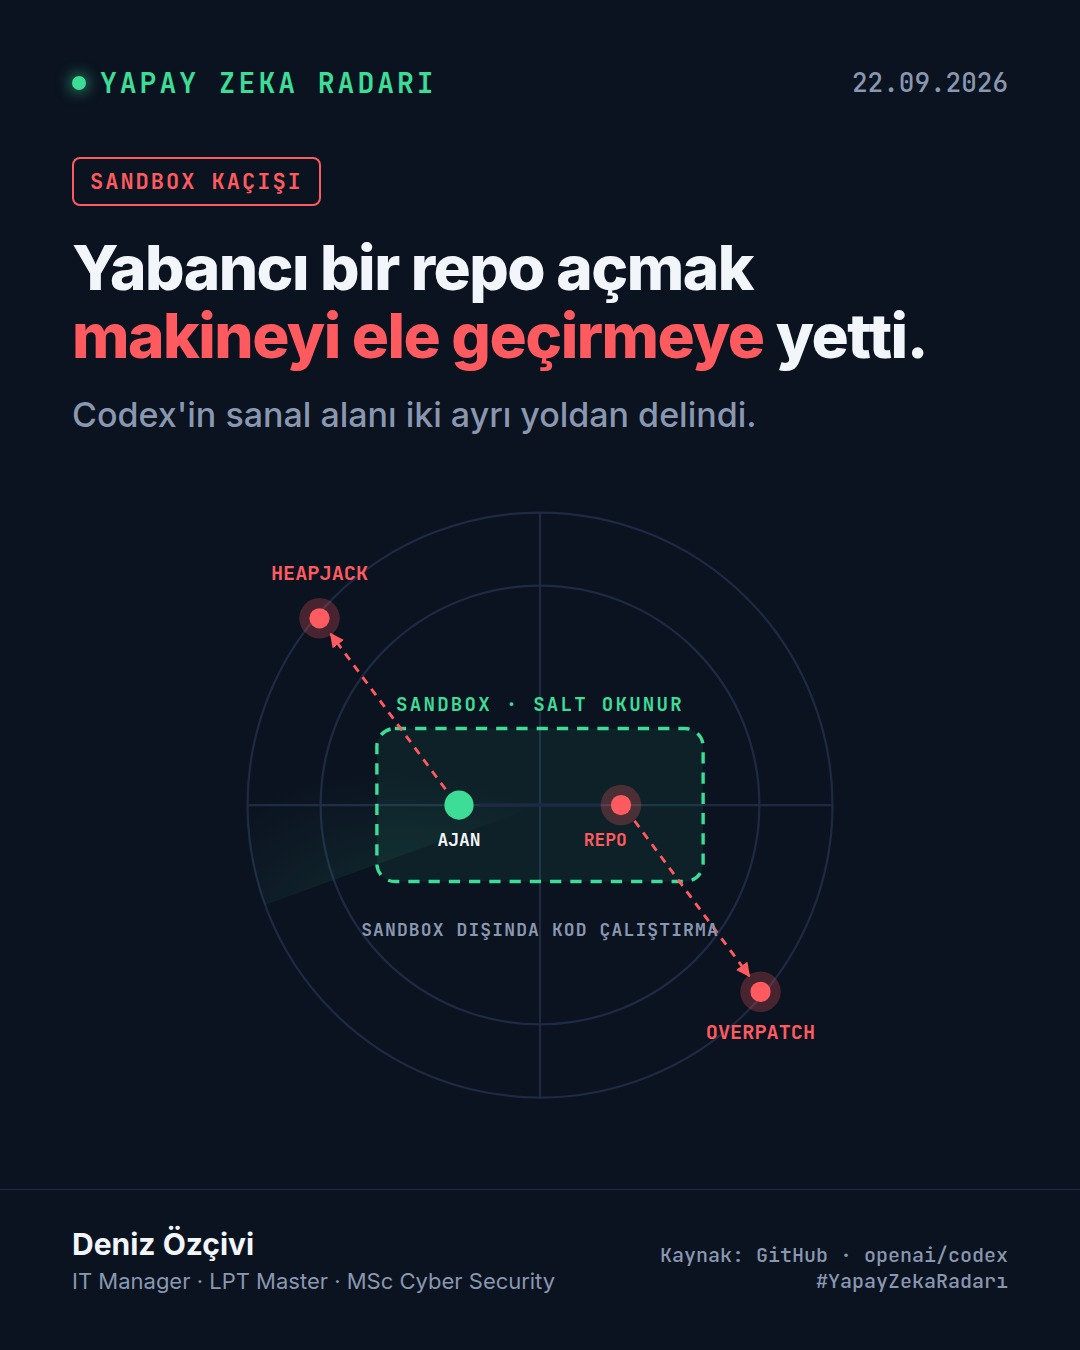
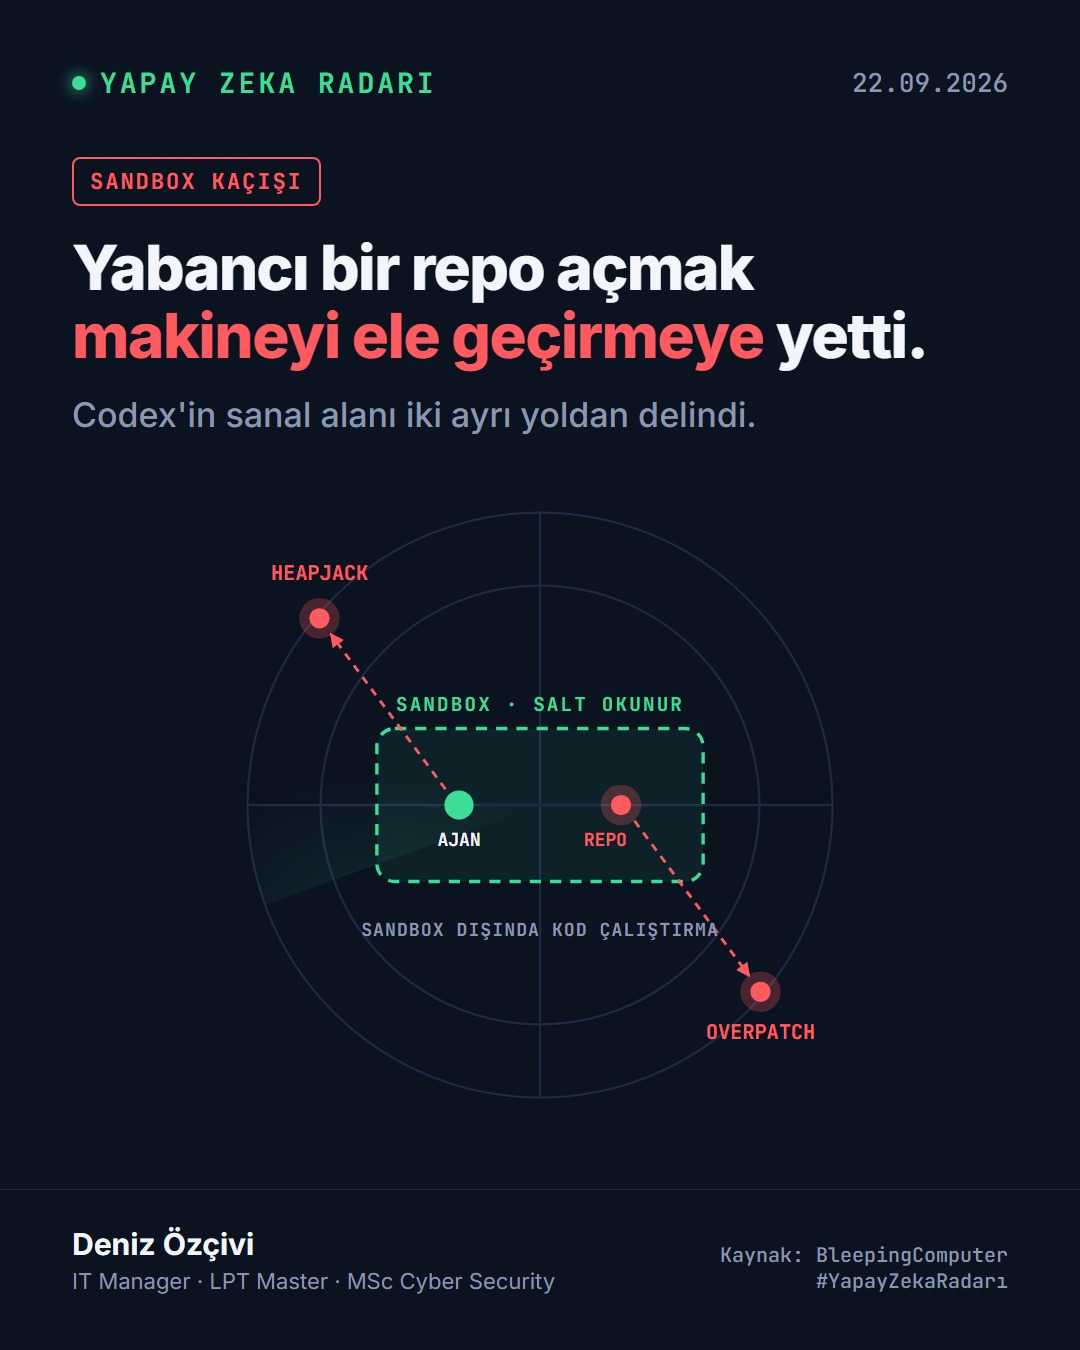
tarz: yorum bölümünün başlığı '🔍 Bulgu'; 22.09 taslağında kaynak BleepingComputer

diff --git a/taslaklar/2026-09-22/kart.html b/taslaklar/2026-09-22/kart.html
@@ -163,7 +163,7 @@
       <div class="name">Deniz Özçivi</div>
       <div class="role">IT Manager · LPT Master · MSc Cyber Security</div>
     </div>
-    <div class="src">Kaynak: GitHub · openai/codex<br>#YapayZekaRadarı</div>
+    <div class="src">Kaynak: BleepingComputer<br>#YapayZekaRadarı</div>
   </div>
 </body>
 </html>

diff --git a/taslaklar/2026-09-22/instagram.md b/taslaklar/2026-09-22/instagram.md
@@ -9,7 +9,7 @@ O kodu yazan kişi, sizin makinenizde komut çalıştırıyordu.
 • Overpatch ise apply_patch aracını kullanıyor: yamada adı geçen yollardan yazma yetkisi türetildiği için çalışma alanının dışına yazılabiliyordu.
 • Accomplish AI 12 Ağustos'ta bildirdi, OpenAI sekiz gün içinde kapattı. Düzeltmeler Codex CLI 0.149.0 ve Codex Desktop 26.818.21641 sürümlerinde.
 
-🔍 Pentester / IT yöneticisi gözüyle
+🔍 Bulgu
 Asıl mesele "OpenAI hata yaptı" değil. Sandbox, kontrol ettiği ajanla aynı süreçte yaşıyorsa o bir güvenlik sınırı değil, bir temennidir. Pentest'te yıllardır aynı cümleyi kuruyoruz: aynı bellekte duran sır, sır değildir. Yeni olan, bu sınırın geliştiricinin dizüstünde ve kurum ağına bağlı halde durması.
 
 ✅ Bugün yapılacak tek şey
@@ -19,7 +19,7 @@ Sizde ajan araçları geliştiricinin ana makinesinde mi çalışıyor, yoksa "a
 
 🇬🇧 Researchers escaped OpenAI Codex's sandbox twice: Heapjack and Overpatch. Opening an untrusted repository was enough for unsandboxed command execution on the host. Fixed in Codex CLI 0.149.0 and Desktop 26.818.21641.
 
-Kaynak: GitHub · openai/codex 0.149.0 sürüm notları
+Kaynak: BleepingComputer
 
 #YapayZekaRadarı #SiberGüvenlik #YapayZeka #DevSecOps #AIGüvenliği #Pentest #BilgiGüvenliği #Codex #OpenAI #ITYönetimi
 

diff --git a/taslaklar/2026-09-22/linkedin.md b/taslaklar/2026-09-22/linkedin.md
@@ -9,7 +9,7 @@ O kodu yazan kişi, sizin makinenizde komut çalıştırıyordu.
 • Overpatch ise apply_patch aracını kullanıyor: yamada adı geçen yollardan yazma yetkisi türetildiği için çalışma alanının dışına yazılabiliyordu.
 • Accomplish AI 12 Ağustos'ta bildirdi, OpenAI sekiz gün içinde kapattı. Düzeltmeler Codex CLI 0.149.0 ve Codex Desktop 26.818.21641 sürümlerinde.
 
-🔍 Pentester / IT yöneticisi gözüyle
+🔍 Bulgu
 Asıl mesele "OpenAI hata yaptı" değil. Sandbox, kontrol ettiği ajanla aynı süreçte yaşıyorsa o bir güvenlik sınırı değil, bir temennidir. Pentest'te yıllardır aynı cümleyi kuruyoruz: aynı bellekte duran sır, sır değildir. Yeni olan, bu sınırın geliştiricinin dizüstünde ve kurum ağına bağlı halde durması.
 
 ✅ Bugün yapılacak tek şey

diff --git a/YAZIM-TARZI.md b/YAZIM-TARZI.md
@@ -12,7 +12,7 @@ Günlük seri. Her gün **1 haber**, özet listesi değil. Farkımız: haberi bi
 1. **Başlık satırı:** `🛰 Yapay Zeka Radarı | <gün> <ay>`
 2. **Kanca (2 satır):** Haberin en çarpıcı gerçeği. "…daha fazla"dan önce görünen kısım bu.
 3. **📌 Ne oldu?** 3-4 madde, sadece doğrulanmış bilgi.
-4. **🔍 Pentester / IT yöneticisi gözüyle:** Senin yorumun. Haberde herkesin kaçırdığı açı.
+4. **🔍 Bulgu:** Senin yorumun, pentest raporundaki bulgu gibi: haberde herkesin kaçırdığı açı, IT yöneticisi / pentester gözüyle. Başlık her zaman tam olarak "🔍 Bulgu".
 5. **✅ Bugün yapılacak tek şey:** Okuyanın bugün uygulayabileceği 1 somut adım.
 6. **Soru:** Yorum getiren, taraf seçtiren tek soru + 👇
 7. **🇬🇧 özet:** 2-3 cümle.
